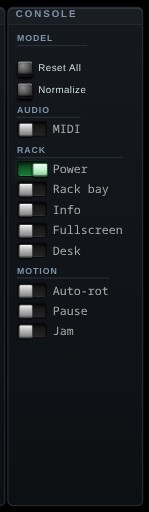
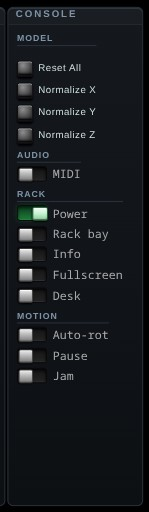
Console: Normalize X, Y and Z, each pressed again for the axis's other end
Normalize squared the model up along Z only, and a view straight down an
axis (the exact bottom of a figure) is hard to reach by dragging. The one
button is now three: each turns its axis of the model toward the viewer
with no spin, and a second press, while the model still sits in that pose,
turns it round to the axis's other end. Normalize Z keeps the old button's
id and pose.

normalPose is tested against the matrix rebuildModelMatrix composes. The
module snapshot's Console entry and photo are recaptured; its controls'
addresses move along a column for the two added buttons. An orphaned
comment that described Normalize wrongly (auto-rotate is switched off) is
gone.

diff --git a/pkg/attractor/orientation_js.go b/pkg/attractor/orientation_js.go
@@ -35,10 +35,26 @@ func setAutoRotate(on bool) {
 // differently from flipping the switch even though it now does the same thing.
 func clearAutoRotateFlag() { setAutoRotate(false) }
 
-// selWindow is the little label window on the attractor selector knob.
+// normalizeOrientation resets the current model to the default identity
+// pose and zeroes the per-axis spin rates, so it faces the camera head-on.
+func normalizeOrientation() { setPose([3]float32{}) }
 
-func normalizeOrientation() {
-	view.angleX, view.angleY, view.angleZ = 0, 0, 0
+// normalizeAxis squares the model up with one of its axes toward the viewer
+// (normalPose), and with no spin. Pressed again while the model still sits
+// in that pose, it turns it round to show the axis's other end: the exact
+// bottom of a figure, say, which is hard to reach by dragging.
+func normalizeAxis(axis int) {
+	want := normalPose(axis, false)
+	if view.ball.orient == mgl32.Ident4() && [3]float32{view.angleX, view.angleY, view.angleZ} == want {
+		want = normalPose(axis, true)
+	}
+	setPose(want)
+}
+
+// setPose puts the model at the X→Y→Z euler pose p, with no drag and no
+// spin: the rate knobs zeroed and auto-rotate off.
+func setPose(p [3]float32) {
+	view.angleX, view.angleY, view.angleZ = p[0], p[1], p[2]
 	view.ball.orient = mgl32.Ident4()
 	zeroRotationSliders()
 	clearAutoRotateFlag()

diff --git a/pkg/attractor/pose.go b/pkg/attractor/pose.go
@@ -24,6 +24,36 @@ func wrapTwoPi(a float32) float32 {
 	return a
 }
 
+// normalPose is the X→Y→Z euler pose that turns the model's axis (0 X, 1 Y,
+// 2 Z) square to the screen, its positive end toward the viewer, or its
+// negative end when back is set: the Console's Normalize X, Y and Z, which
+// a second press turns round to the other side. The camera looks down −Z,
+// so the pose takes the axis to +Z.
+func normalPose(axis int, back bool) [3]float32 {
+	half := float32(math.Pi / 2)
+	var p [3]float32
+	switch axis {
+	case 0: // +X to +Z is −90° about Y
+		p[1] = -half
+		if back {
+			p[1] = half
+		}
+	case 1: // +Y to +Z is +90° about X
+		p[0] = half
+		if back {
+			p[0] = -half
+		}
+	default: // Z is the default pose; its back is half a turn about Y
+		if back {
+			p[1] = 2 * half
+		}
+	}
+	for i := range p {
+		p[i] = wrapTwoPi(p[i])
+	}
+	return p
+}
+
 // decomposeXYZ extracts the X→Y→Z euler angles from a rotation matrix built as
 // RotX·RotY·RotZ (the order rebuildModelMatrix composes), so a camera-relative
 // drag can be folded back into the knob angles. Handles the ±90° Y gimbal by

diff --git a/pkg/attractor/pose_test.go b/pkg/attractor/pose_test.go
@@ -69,3 +69,30 @@ func TestWrapTwoPi(t *testing.T) {
 		}
 	}
 }
+
+// Each Normalize turns its axis to the viewer (+Z, the camera looking down
+// −Z), and its second press turns the axis's other end there, with the
+// matrix rebuildModelMatrix composes.
+func TestNormalPoseFacesTheAxis(t *testing.T) {
+	for axis := range 3 {
+		for _, back := range []bool{false, true} {
+			p := normalPose(axis, back)
+			m := mgl32.HomogRotate3DX(p[0]).Mul4(mgl32.HomogRotate3DY(p[1])).Mul4(mgl32.HomogRotate3DZ(p[2]))
+			var v mgl32.Vec4
+			v[axis], v[3] = 1, 1
+			got := m.Mul4x1(v)
+			want := float32(1)
+			if back {
+				want = -1
+			}
+			if math.Abs(float64(got[0])) > 1e-6 || math.Abs(float64(got[1])) > 1e-6 || math.Abs(float64(got[2]-want)) > 1e-6 {
+				t.Errorf("axis %d back %v: pose %v takes it to %v, want (0,0,%v)", axis, back, p, got, want)
+			}
+			for _, a := range p {
+				if a < 0 || a >= twoPi {
+					t.Errorf("axis %d back %v: angle %v outside [0, 2π)", axis, back, a)
+				}
+			}
+		}
+	}
+}

diff --git a/pkg/attractor/main.go b/pkg/attractor/main.go
@@ -1072,12 +1072,16 @@ func wireColorAndViewControls() {
 // on and through the model.
 func wirePanelSwitches() {
 
-	// Event: normalize — reorient the current model to the default
-	// (identity) pose and stop any slider-driven spin.
-	dom.On(dom.Doc.Call("getElementById", "normalize-btn"), "click", func(this js.Value, args []js.Value) any {
-		normalizeOrientation()
-		return nil
-	})
+	// Event: Normalize X, Y and Z — square the model up with that axis
+	// toward the viewer and stop any spin; a second press shows the axis's
+	// other end. Z is the default (identity) pose, and keeps the id the one
+	// Normalize button had.
+	for axis, id := range []string{"normalize-x-btn", "normalize-y-btn", "normalize-btn"} {
+		dom.On(dom.Doc.Call("getElementById", id), "click", func(this js.Value, args []js.Value) any {
+			normalizeAxis(axis)
+			return nil
+		})
+	}
 
 	// Event: speed slider
 	// (Speed's input/reset wiring is owned by its ControlDesc registration.)

diff --git a/pkg/attractor/panelhtml_js.go b/pkg/attractor/panelhtml_js.go
@@ -28,7 +28,9 @@ const controlsBody = `
   <span id="extra-nav"></span>
   <div class="console-btns">
   <span class="grp btn-row"><button class="pushbtn" id="reset-all-btn" data-doc="reset-all-btn"></button><span class="btn-lbl">Reset All</span></span>
-  <span class="grp btn-row"><button class="pushbtn" id="normalize-btn" data-doc="normalize-btn"></button><span class="btn-lbl">Normalize</span></span>
+  <span class="grp btn-row"><button class="pushbtn" id="normalize-x-btn" data-doc="normalize-x-btn"></button><span class="btn-lbl">Normalize X</span></span>
+  <span class="grp btn-row"><button class="pushbtn" id="normalize-y-btn" data-doc="normalize-y-btn"></button><span class="btn-lbl">Normalize Y</span></span>
+  <span class="grp btn-row"><button class="pushbtn" id="normalize-btn" data-doc="normalize-btn"></button><span class="btn-lbl">Normalize Z</span></span>
   </div>
   </div>
   <div class="swsec"><div class="swsec-hdr" data-doc="console.audio">Audio</div>

diff --git a/pkg/attractor/modeselect_js.go b/pkg/attractor/modeselect_js.go
@@ -159,10 +159,6 @@ func updateTrailVisibility() {
 	setCellBlank(dom.Doc.Call("getElementById", "trail-controls"), !isAttractorMode(run.selectedMode))
 }
 
-// normalizeOrientation resets the current model to the default identity
-// pose and zeroes the per-axis spin rates, so it faces the camera head-on.
-// Auto-rotate (if on) still applies afterward.
-
 func onModeChange(this js.Value, args []js.Value) any {
 	sel := dom.Doc.Call("getElementById", "mode-select")
 	// While the panel is on the backdrop, choosing a model chooses what is

diff --git a/README.md b/README.md
@@ -2294,19 +2294,19 @@ bay.column.row. Expand **Controls** for every cell's tooltip.
 
 <img src="docs/img/module/console.jpg" alt="The Console module" width="149" height="512" align="left">
 
-2.10 · Console — Reset All and Normalize, MIDI, and the switches for the rack itself and for motion. The model is chosen with the MODEL knob in bay 1.
+2.10 · Console — Reset All and Normalize X, Y and Z, MIDI, and the switches for the rack itself and for motion. The model is chosen with the MODEL knob in bay 1.
 
 <details><summary>Controls</summary>
 
-- **MIDI** — 2.10.1.c · MIDI — hardware control over WebMIDI: CC 1 and up drive the model's continuous knobs in order, CC 21 to 29 the view (zoom, pan X, pan Y, spin X, Y and Z, period, trail and shift), and a note hops to a flow picked by the note.
-- **Power** — 2.10.1.d · Power — the model. Off stops it and clears the canvas, which is what the GPU costs; the scopes and meters still read what plays, and every setting is still there to read and to change. OFF on the MODEL knob is the same switch.
-- **Rack bay** — 2.10.2.a · Rack bay — draw the 19-inch frame each ROW of modules sits in: rails above and below, an ear each side, and blank panels filling the leftover at the end of the row on the same slot pitch. The modules wrap, and a row is a bay, so a rack that has spilled onto a second row gets a second frame. While it is on, a click on one of a bay's top screws moves the bay up a place, on a bottom screw down one; the order is kept in this browser, and the addresses on a moved bay follow it.
-- **Info** — 2.10.2.b · Info — opens the Info window: the model playing, described, or, while the rack is off, the manual's page for the bay last worked at.
-- **Fullscreen** — 2.10.2.c · Fullscreen — the browser's full screen: the canvas fills the display, and the panel stays available
-- **Desk** — 2.10.2.d · Desk — run this app inside a desktop: the desk becomes the environment, its panel takes the bottom of the screen, and the rack floats as a window on it with a task button beside the desk's own. The scene keeps running behind. Open a terminal, the host shell or the file manager from the desk's Applications menu. The OTHER way to have the desk is as a MODEL (Solids → desk), where the whole desktop is drawn into the scene and turns with it.
-- **Auto-rot** — 2.10.2.e · Continuously spin the model about the vertical (Y) axis — it folds into the Y spin rate (ω, View)
-- **Pause** — 2.10.2.f · Pause / freeze the animation
-- **Jam** — 2.10.2.g · Jam / attract mode — the app performs itself: hops to a random attractor every 12–20 s with fresh gentle spin and occasional persist paint. Never touches speaker outputs.
+- **MIDI** — 2.10.1.e · MIDI — hardware control over WebMIDI: CC 1 and up drive the model's continuous knobs in order, CC 21 to 29 the view (zoom, pan X, pan Y, spin X, Y and Z, period, trail and shift), and a note hops to a flow picked by the note.
+- **Power** — 2.10.2.a · Power — the model. Off stops it and clears the canvas, which is what the GPU costs; the scopes and meters still read what plays, and every setting is still there to read and to change. OFF on the MODEL knob is the same switch.
+- **Rack bay** — 2.10.2.b · Rack bay — draw the 19-inch frame each ROW of modules sits in: rails above and below, an ear each side, and blank panels filling the leftover at the end of the row on the same slot pitch. The modules wrap, and a row is a bay, so a rack that has spilled onto a second row gets a second frame. While it is on, a click on one of a bay's top screws moves the bay up a place, on a bottom screw down one; the order is kept in this browser, and the addresses on a moved bay follow it.
+- **Info** — 2.10.2.c · Info — opens the Info window: the model playing, described, or, while the rack is off, the manual's page for the bay last worked at.
+- **Fullscreen** — 2.10.2.d · Fullscreen — the browser's full screen: the canvas fills the display, and the panel stays available
+- **Desk** — 2.10.2.e · Desk — run this app inside a desktop: the desk becomes the environment, its panel takes the bottom of the screen, and the rack floats as a window on it with a task button beside the desk's own. The scene keeps running behind. Open a terminal, the host shell or the file manager from the desk's Applications menu. The OTHER way to have the desk is as a MODEL (Solids → desk), where the whole desktop is drawn into the scene and turns with it.
+- **Auto-rot** — 2.10.2.f · Continuously spin the model about the vertical (Y) axis — it folds into the Y spin rate (ω, View)
+- **Pause** — 2.10.3.a · Pause / freeze the animation
+- **Jam** — 2.10.3.b · Jam / attract mode — the app performs itself: hops to a random attractor every 12–20 s with fresh gentle spin and occasional persist paint. Never touches speaker outputs.
 
 </details>
 

diff --git a/manual/console.md b/manual/console.md
@@ -3,17 +3,23 @@
 ## Console
 
 <!-- key: console -->
-Console — Reset All and Normalize, MIDI, and the switches for the rack itself and for motion.
+Console — Reset All and Normalize X, Y and Z, MIDI, and the switches for the rack itself and for motion.
 The model is chosen with the MODEL knob in bay 1.
 
 <!-- key: console.equation -->
-Model — Reset All, which puts the whole rack back as it starts, and Normalize, which squares the model up to the screen.
+Model — Reset All, which puts the whole rack back as it starts, and Normalize X, Y and Z, which square the model up to the screen with that axis toward you; press one again for the axis's other end.
 
 <!-- key: reset-all-btn -->
 Reset parameters, colors, view pose, trail, gradient, effect switches (Fill, backdrops, the section and the Turtle's weight), display style, and the signal generator to their defaults (keeps your dock layout + interface size)
 
+<!-- key: normalize-x-btn -->
+Normalize X — turn the model's X axis straight toward you and stop any spin; press again to look from the other end of X
+
+<!-- key: normalize-y-btn -->
+Normalize Y — turn the model's Y axis (up) straight toward you, looking down on its top, and stop any spin; press again to look from straight below
+
 <!-- key: normalize-btn -->
-Re-center the model to the default (identity) orientation and stop any spin
+Normalize Z — the default (identity) orientation, square to the screen, with no spin; press again to look from behind
 
 ### Audio
 
